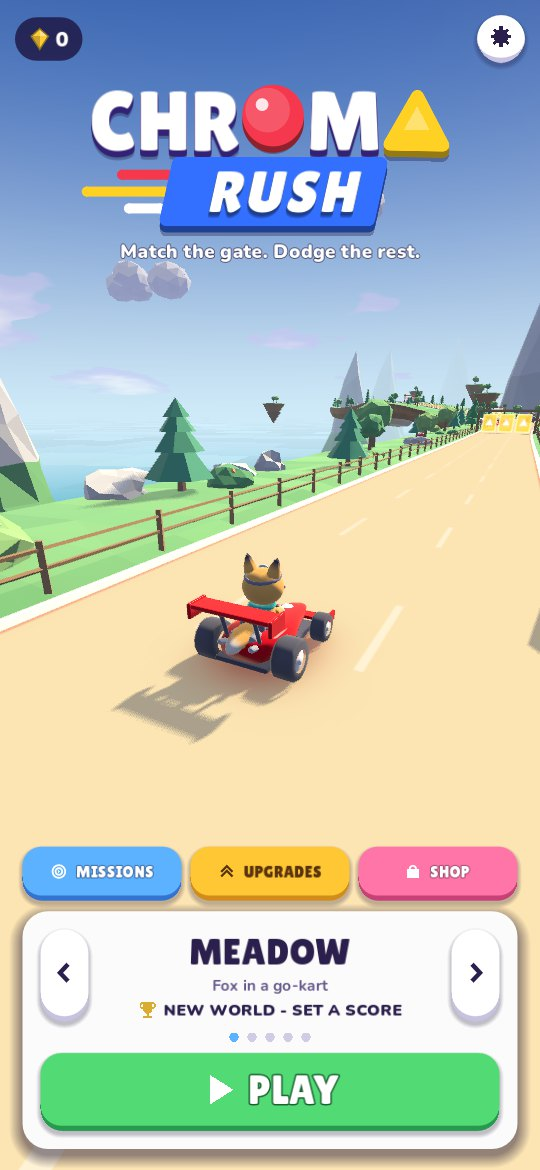
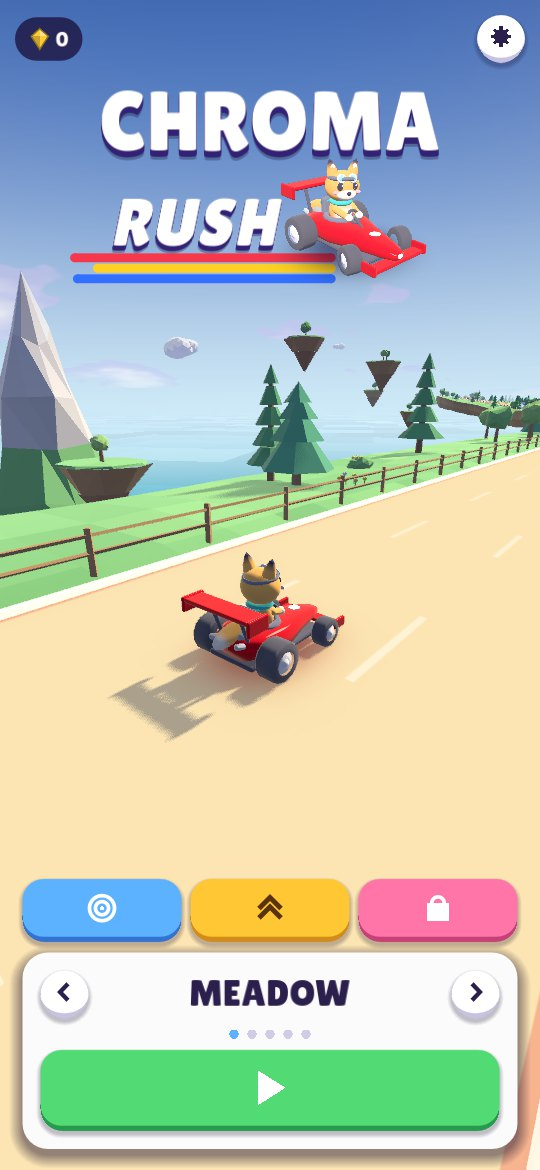
Document the mascot brand art, the launch transition and symbols-first UI
README explains how the logo's kart, the icon and the splash are
rendered from the game. docs/game-design.md records the rules: symbols
before words, the brand shows the vehicle and driver, no hard cut at
launch. Phone screenshots are refreshed.

The iOS launch image now scales to fit, like the engine's splash and the
in-game cover, so the logo does not change size between the three.

diff --git a/docs/game-design.md b/docs/game-design.md
@@ -198,11 +198,13 @@ The art is low-poly, but it should read as a modern, soft, toy-like game, not as
 
 ### Interface
 
-- **The score is the hero.** The results screen is a scoreboard, not a form: the score straight on the scene, one card with three numbers, the missions as rings and one line for what the shards are building towards, then at most one row of offers and RETRY.
-- **Actions in thumb reach.** The home screen keeps shards and settings in the top corners and puts MISSIONS, UPGRADES, SHOP and PLAY at the bottom.
+- **Symbols before words.** A button, a call-out or a caption is an icon unless an icon cannot say it. Words are kept for world names, mission descriptions, the shop, settings toggles and confirmations. In a run, call-outs are icons with at most a number: fuel and a tick for a save, a star and "x3" for a combo.
+- **The score is the hero.** The results screen is a scoreboard, not a form: a badge for how the run ended, the score straight on the scene, one card with three numbers, the missions as rings and a bar for what the shards are building towards, then at most one row of offers and the retry button.
+- **Actions in thumb reach.** The home screen keeps shards and settings in the top corners and puts missions, upgrades, shop and play at the bottom.
 - **Readable.** Body text is bold (Nunito 700 to 900) and nothing is smaller than 18 canvas pixels, about 9 pt on a phone. Numbers that matter use the title font.
 - **Lists scroll from anywhere.** A list built with `UiScreen.scroll_list()` scrolls when dragged by a row or a button, not only by the gaps (see `UiKit.pass_touches`); a 12 px dead zone keeps taps from nudging it. Overlays that are a card of options close on a tap outside the card, and cards pop in.
-- **The logo uses the game's own pieces.** White CHROMA on a deep lip with the red orb as the O and the yellow triangle as the A; RUSH on a blue ribbon with speed streaks. It is drawn in code (`scripts/ui/logo.gd`). The app icon (`icons/icon.svg`) shows the same three shapes, glossy and without outlines.
+- **The brand shows the vehicle and its driver**, so the game reads as a racer, not a block puzzle. `scripts/dev/render_icons.gd` renders the fox in its kart from the real model and builds everything from it: the logo (white CHROMA on a deep lip, then RUSH leaning forward beside the kart, which trails the three gate colours; `scripts/ui/logo.gd`), the app icon (the kart racing out of a three-colour trail) and the splash.
+- **No hard cut at launch.** The boot splash is the logo on the brand colour, scaled to fit. The game opens on a cover that looks exactly the same and lifts it away to show the home screen.
 
 ### Performance
 

diff --git a/README.md b/README.md
@@ -77,7 +77,7 @@ Three goals at a time, such as "pass 30 gates in one run" or "collect 140 orbs".
 - **Five worlds**: Meadow, Glacier, Canyon, Volcano and Solar System, each with its own sky, scenery, landmarks, obstacles, gate arch, vehicle and driver.
 - **Readable for everyone**: one colour set in every world, chosen to stay distinct under protanopia, deuteranopia and tritanopia, plus a shape per colour.
 - **Endless and stable**: the track is generated as you drive, with bounded memory and a floating origin, so a 60 km run uses the same memory as a 1 km run.
-- **Full navigation**: home screen with a dock (missions, upgrades, shop) and world picker, how to play, pause, a scoreboard-style results screen, settings, and the Android back button. Lists scroll from anywhere a finger lands, and overlays close on a tap outside.
+- **Full navigation, in symbols**: home screen with a dock (missions, upgrades, shop) and world picker, how to play, pause, a scoreboard-style results screen, settings, and the Android back button. Buttons and call-outs are icons wherever an icon can say it. Lists scroll from anywhere a finger lands, and overlays close on a tap outside.
 - **A soft, modern low-poly look**: no dark outlines; shapes are separated by rim light, glow and soft shadows. Glass gates, glossy gems, a calm road with light lane dashes and low kerbs, linear colour with soft bloom.
 - **Smooth motion**: the vehicle glides between lanes, leans, squashes and pops on springs, with its wheels on the road; pickups and gates throw sparkles.
 - **Progression**: shards from orbs, distance and missions buy upgrades and unlock new worlds; Phoenix gems bank free revives; best score per world; lifetime stats.
@@ -172,10 +172,11 @@ Export presets for macOS, Android (AAB) and iOS are in `export_presets.cfg`; the
 - Put the AdMob ad unit IDs in `scripts/services/ads_admob.gd` and the privacy / support links in `scripts/ui/screens/settings_screen.gd`.
 - Set up the Android keystore, and replace the free personal Apple team in the iOS preset with the paid team.
 
-To regenerate the icons after editing `icons/icon.svg`:
+The logo's kart, the app icon and the splash are rendered from the game's own model. To regenerate them (after changing the kart or the logo), run this with a window, then re-import:
 
 ```sh
-godot --headless --path . -s res://scripts/dev/render_icons.gd
+godot --path . -s res://scripts/dev/render_icons.gd
+godot --headless --path . --import
 ```
 
 ## Credits
